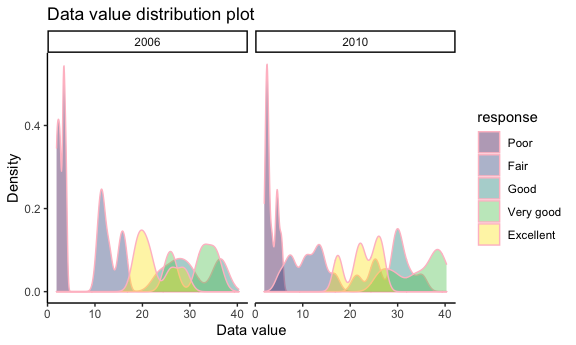
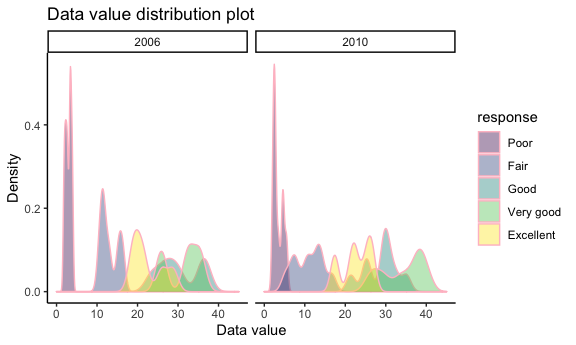
Add X-axis limits in the final plot.

diff --git a/p8105_hw3_hz2772.md b/p8105_hw3_hz2772.md
@@ -251,6 +251,7 @@ brfss %>%
   group_by(response) %>%
   ggplot(aes(x = data_value, fill = response)) + 
   geom_density(alpha = .4, adjust = .5, color = "pink") + 
+  scale_x_continuous(limits = c(0,45)) +
   labs(
     title = "Data value distribution plot",
     x = "Data value",
